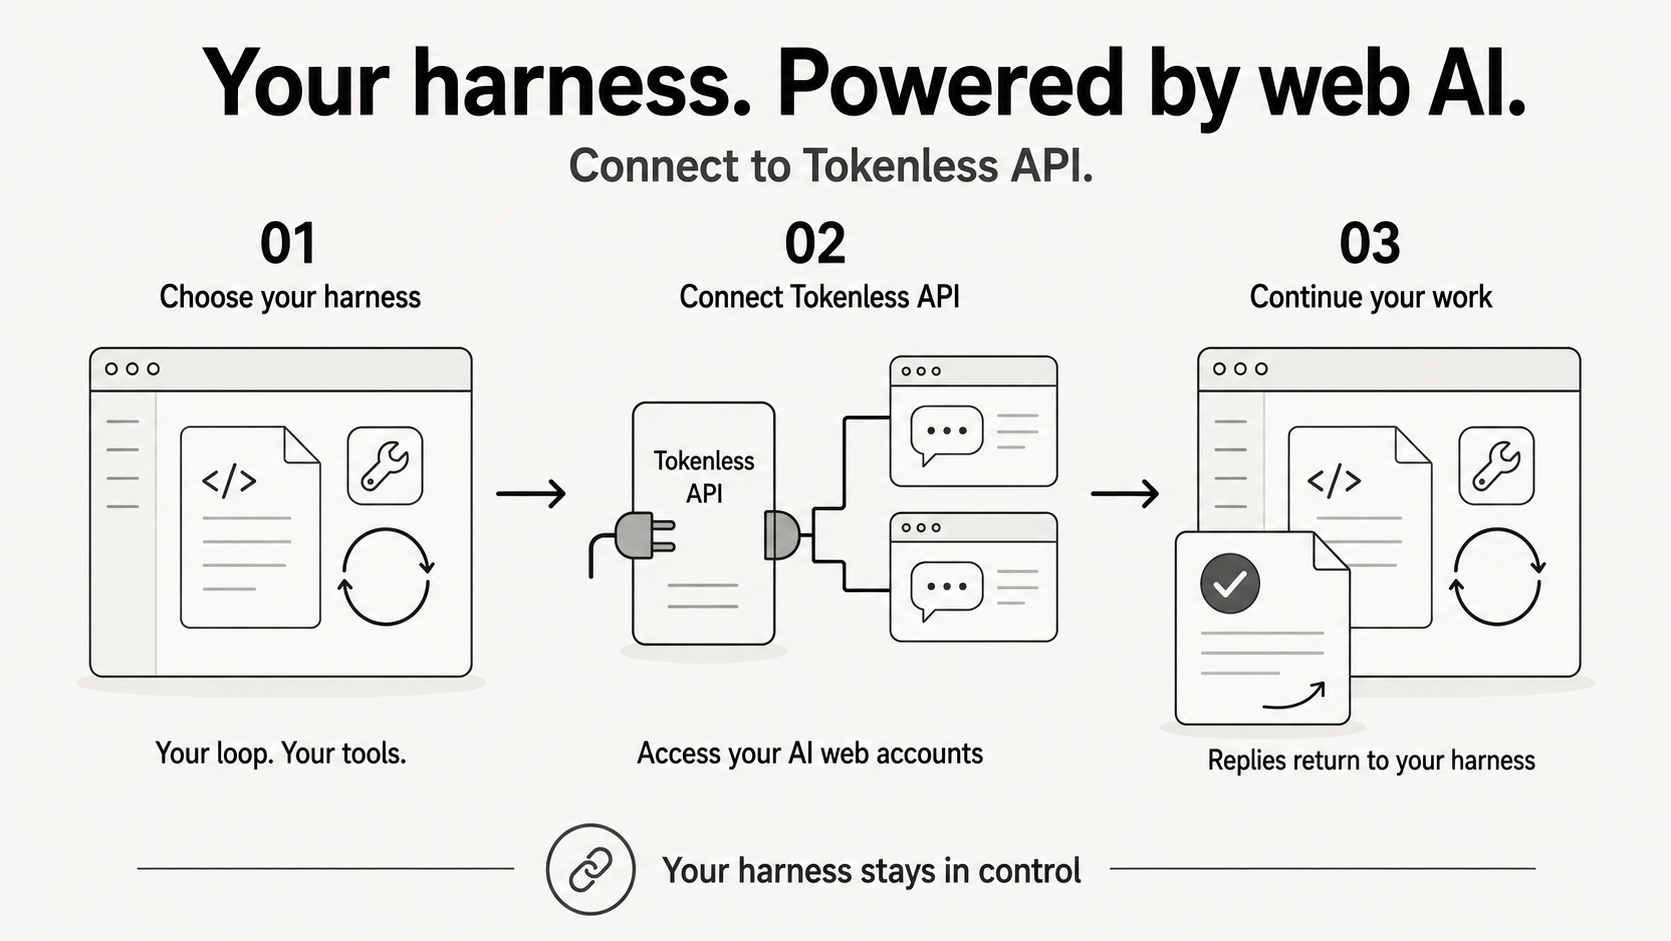
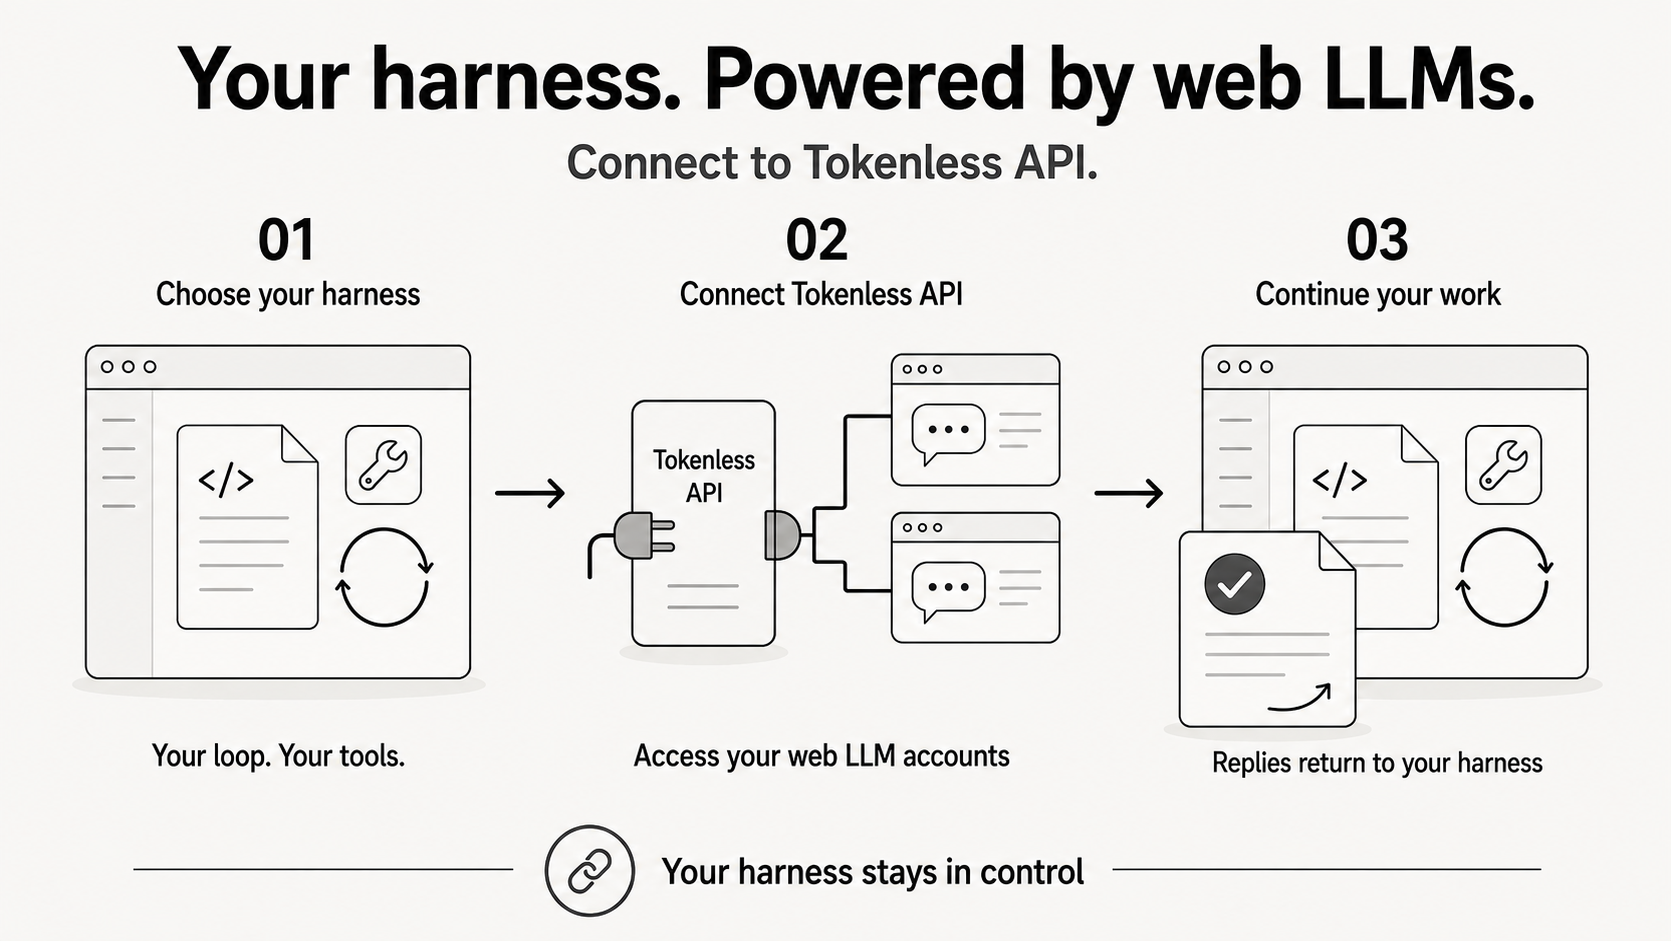
docs(readme): use web LLM terminology in copy and visuals

diff --git a/README.md b/README.md
@@ -4,7 +4,7 @@
 
 <h1 align="center">Web Harness</h1>
 
-<p align="center"><strong>Put your existing AI web accounts to work for your agents.</strong></p>
+<p align="center"><strong>Put your existing web LLM accounts to work for your agents.</strong></p>
 
 <p align="center">
   <a href="#start-in-three-commands">Quick start</a> · <a href="#what-is-a-web-harness">What is Web Harness?</a> · <a href="docs/capability-matrix.md">Capabilities</a> · <a href="README.md">English</a> · <a href="README.zh-CN.md">简体中文</a>
@@ -29,7 +29,7 @@ Give Tokenless Harness a task; it manages execution through Tokenless API and re
 
 Keep your Harness’s agent loop, tools, and sessions; connect its model interface to Tokenless API.
 
-![Choose your own Harness → connect Tokenless API to your AI web accounts → replies return to your Harness](assets/bring-your-harness-en.png)
+![Choose your own Harness → connect Tokenless API to your web LLM accounts → replies return to your Harness](assets/bring-your-harness-en.png)
 
 [API setup and compatibility limits](docs/api-proxy-integration.md) · [Harness integration](docs/harness-integrations.md)
 
@@ -101,11 +101,11 @@ Already installed? Run `tokenless upgrade --check`, then `tokenless upgrade`. Se
 
 ## What is a Web Harness?
 
-We call **the layer that turns AI websites into an agent’s working environment** a **Web Harness**. Tokenless lets agents submit tasks through your existing web accounts, use supported website capabilities, and bring results back into your workflow.
+We call **the layer that turns web LLMs into an agent’s working environment** a **Web Harness**. Tokenless lets agents submit tasks through your existing web LLM accounts, use supported website capabilities, and bring results back into your workflow.
 
 | What you want to do | What Tokenless handles |
 | --- | --- |
-| Put web AI to work for your agent | Submit prompts, read responses, and continue supported conversations. |
+| Put web LLMs to work for your agent | Submit prompts, read responses, and continue supported conversations. |
 | Work with your own material | Use attachments, citations, and controls verified for the selected provider. |
 | Connect an app and follow progress | Run tasks through the CLI or local compatible APIs; view history and usage in Dashboard. |
 

diff --git a/README.zh-CN.md b/README.zh-CN.md
@@ -4,7 +4,7 @@
 
 <h1 align="center">Web Harness</h1>
 
-<p align="center"><strong>让你已有的 AI 网页账号，为 Agent 完成任务。</strong></p>
+<p align="center"><strong>让你已有的网页大模型账号，为 Agent 完成任务。</strong></p>
 
 <p align="center">
   <a href="#三条命令开始使用">快速开始</a> · <a href="#什么是-web-harness">什么是 Web Harness</a> · <a href="docs/capability-matrix.zh-CN.md">支持的能力</a> · <a href="README.md">English</a> · <a href="README.zh-CN.md">简体中文</a>
@@ -29,7 +29,7 @@
 
 保留自己的 Harness、工具和会话，把模型接口接到 Tokenless API；任务流程仍由你的 Harness 管理。
 
-![自选智能体框架 → 通过 Tokenless API 接入智能助手网页账号 → 回复回到自己的框架](assets/bring-your-harness-zh-CN.png)
+![自选智能体框架 → 通过 Tokenless API 接入网页大模型账号 → 回复回到自己的框架](assets/bring-your-harness-zh-CN.png)
 
 [API 接入与兼容范围](docs/api-proxy-integration.zh-CN.md) · [Harness 集成](docs/harness-integrations.zh-CN.md)
 
@@ -101,11 +101,11 @@ Native mode 使用当前版本的 Chrome 或 Brave；在 `chrome://inspect/#remo
 
 ## 什么是 Web Harness？
 
-我们把**将 AI 网站变成 Agent 工作环境的这一层**称为 **Web Harness**。Tokenless 让 Agent 通过你已有的网页账号提交任务、使用已支持的网页能力，并把结果带回当前工作流。
+我们把**将网页大模型变成 Agent 工作环境的这一层**称为 **Web Harness**。Tokenless 让 Agent 通过你已有的网页大模型账号提交任务、使用已支持的网页能力，并把结果带回当前工作流。
 
 | 你想做什么 | Tokenless 为你完成什么 |
 | --- | --- |
-| 让 Agent 使用网页 AI | 提交 prompt、读取回复，并延续受支持的对话。 |
+| 让 Agent 使用网页大模型 | 提交 prompt、读取回复，并延续受支持的对话。 |
 | 带着材料完成任务 | 使用所选 provider 已支持的附件、引用和控制选项。 |
 | 接入应用并查看进度 | 通过 CLI 或本地兼容 API 发起任务，在 Dashboard 查看记录与用量。 |
 
